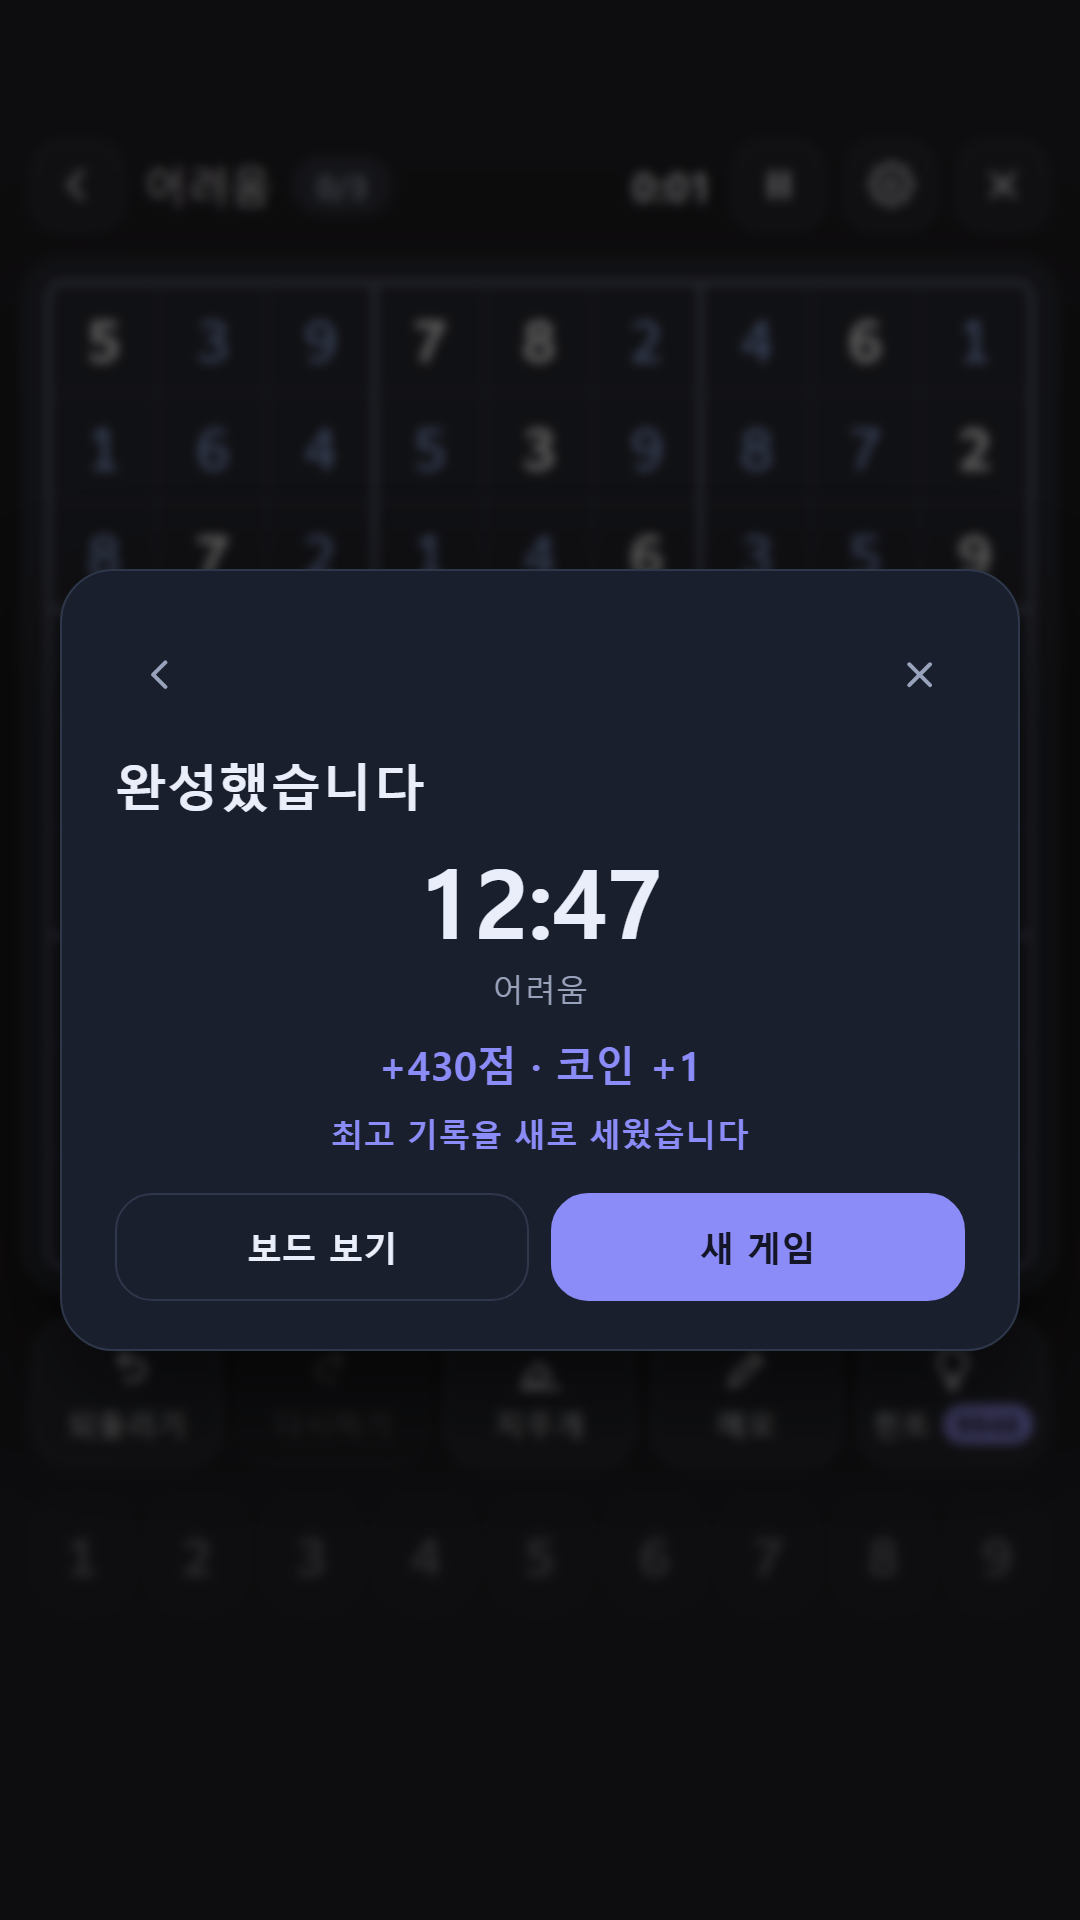
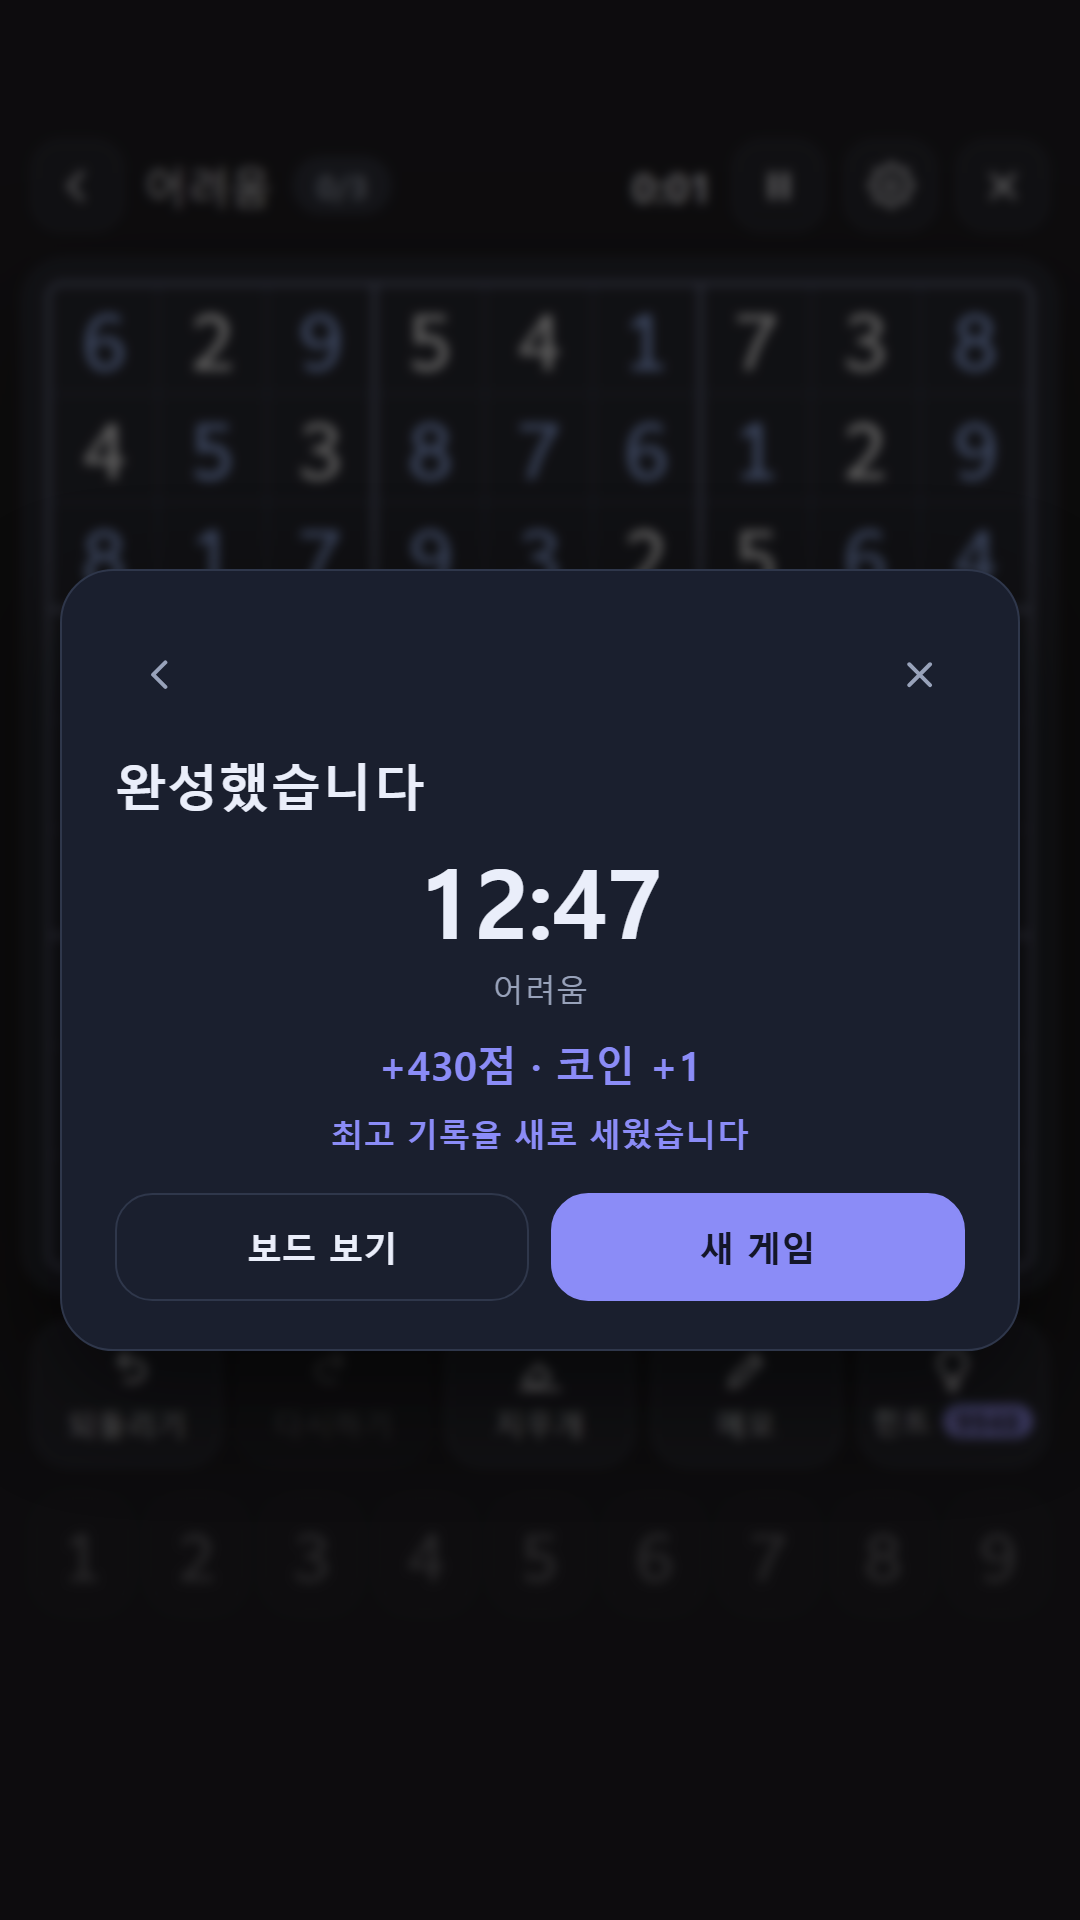
숫자를 가볍고 크게 (1-26)
Andika 는 400 과 700 두 벌뿐이다. 굵기를 재 보니 600 과 700 의 글자 폭이
정확히 같았다 — 600 을 주면 브라우저가 Bold 로 올려 매칭한다. 500 은 둘
사이로 합성된다. 시스템 글꼴(굵기가 촘촘한)을 기준으로 정해 둔 500·600·700
이 그대로 남아 있어서, 화면 숫자의 대부분이 실제 볼드로 그려지고 있었다.

굵기를 400 으로 내리고 크기를 칸의 .52 에서 .70 배로 키웠다. 굵기로 키우던
존재감을 크기로 옮긴 셈이다. 문제로 주어진 숫자는 굵기 대신 색으로만 가른다
— 굵게 두면 쉬운 판에서 화면 절반이 볼드가 된다. 숫자판도 400 에 칸 크기
비례로 키웠다. 메모만 700 을 남겼다. 아주 작아서 가늘게 두면 읽히지 않는다.

힌트 개수 알약의 줄 높이(1.5)가 도구 줄 전체를 밀어 올려 낮은 가로 화면에서
아래 칸이 7px 넘쳤다. 줄 높이를 눌러 두고 가로 배치의 숫자 키 높이 상수도
212 에서 220 으로 맞췄다.

검증: 8개 뷰포트에서 넘침 0, 숫자가 칸 밖으로 나가지 않는 것도 함께 셌다
(0/전체). 테스트 387건 통과. 스토어 스크린샷 재촬영.

Claude-Session: https://claude.ai/code/session_01WmQVhUnsNdVUHnQAEa6Dzo

diff --git a/index.html b/index.html
@@ -279,8 +279,10 @@ button {
      tabular 숫자를 함께 켜야 칸마다 자리가 흔들리지 않는다. */
   font-family: 'Andika', system-ui, -apple-system, "Segoe UI", Roboto, sans-serif;
   font-variant-numeric: tabular-nums;
-  font-size: calc(var(--cell) * .52);
-  font-weight: 500;
+  /* Andika 는 400 과 700 두 벌뿐이라 500·600 을 주면 Bold 로 튀거나 합성된다.
+     굵기로 키우는 대신 글자를 키워 칸을 채운다. */
+  font-size: calc(var(--cell) * .70);
+  font-weight: 400;
   line-height: 1;
   color: var(--ink-user);
   user-select: none;
@@ -298,7 +300,7 @@ button {
 .cell[data-c="8"] { border-right: none; }
 .cell[data-r="8"] { border-bottom: none; }
 
-.cell.given { color: var(--ink); font-weight: 700; }
+.cell.given { color: var(--ink); }
 .cell.err   { color: var(--ink-err); }
 
 /* 강조는 겹쳐 쌓이므로 약한 것부터 선언한다 */
@@ -324,7 +326,7 @@ button {
   grid-template: repeat(3, 1fr) / repeat(3, 1fr);
   font-family: var(--note-font, system-ui, sans-serif);
   font-size: calc(var(--cell) * .26);
-  font-weight: 700;
+  font-weight: 700;      /* 메모는 아주 작아서 가늘게 두면 읽히지 않는다 */
   color: var(--ink-note);
   line-height: 1;
 }
@@ -379,9 +381,11 @@ button {
 }
 /* 힌트에 남은 개수를 붙여 둔다. 전구 옆 작은 배지로 띄웠을 때는 그것이 무엇의
    개수인지 읽히지 않아, 라벨과 같은 줄에 두고 색을 준다. */
-.tool-line { display: flex; align-items: center; gap: 4px; }
+.tool-line { display: flex; align-items: center; gap: 4px; line-height: 1; }
 .tool .count {
-  font-size: 10px; font-weight: 800; line-height: 1.5;
+  /* 줄 높이를 1.5 로 두면 알약이 도구 줄 전체를 밀어 올려, 낮은 가로 화면에서
+     아래 칸이 넘친다. 알약 안쪽 여백으로 높이를 만들고 줄 높이는 눌러 둔다. */
+  font-size: 10px; font-weight: 800; line-height: 1.25;
   background: var(--accent); color: var(--accent-ink);
   border-radius: 999px; padding: 0 5px; min-width: 16px; text-align: center;
 }
@@ -405,8 +409,8 @@ button {
   color: var(--ui-text);
   font-family: 'Andika', system-ui, sans-serif;   /* 보드와 같은 숫자 모양 */
   font-variant-numeric: tabular-nums;
-  font-weight: 600;
-  font-size: clamp(17px, 4.8vw, 25px);
+  font-weight: 400;
+  font-size: clamp(20px, calc(var(--cell) * .60), 34px);
   display: grid; place-items: center;
 }
 .num:active { transform: translateY(1px); }
@@ -629,7 +633,7 @@ ul.help span { font-size: 12.5px; color: var(--ui-dim); line-height: 1.55; }
      (헤더 42 + 도구 55 + 패드 196 + 아래 칸 50 + 사이 여백 + 아래 padding 10).
      빼는 값은 그 합에서 패드를 뺀 것이다. 아래 칸이 새 게임 버튼(41)에서 광고
      자리(50)로 바뀌면서 212 가 됐다. */
-  .num { aspect-ratio: auto; height: min(60px, calc((100vh - 212px) / 3)); font-size: 22px; }
+  .num { aspect-ratio: auto; height: min(60px, calc((100vh - 220px) / 3)); font-size: 22px; }
   #app > header { margin-top: 0; }
   .side > .footer { margin-bottom: 0; }
 }

diff --git a/BACKLOG.md b/BACKLOG.md
@@ -42,6 +42,7 @@
 | 1-9 | 첫 실행 사용법 안내 | **완료** | 첫 실행에 한 번 뜨고, 이후에는 Home 의 물음표 버튼으로 언제든 볼 수 있다. 입력·규칙·메모·힌트·데일리 다섯 가지 |
 | 1-10 | 입력 편의 — 숫자 우선 모드 | **완료** | 설정에서 켠다. 고른 숫자가 패드에서 강조되고 같은 숫자가 든 칸이 함께 보인다. 같은 숫자를 다시 누르면 해제 |
 | 1-25 | **배경을 흰색으로, 숫자 글꼴을 Andika 로** | **완료** | 라이트 테마 배경 `#eef1f8`→`#ffffff`. 카드도 흰색이라 경계가 사라져 테두리와 격자선을 조금 진하게 잡았다. 숫자 글꼴은 Andika(SIL) — 1 과 7, 6 과 9 가 헷갈리지 않게 그려진 글꼴이다. 인터넷 권한이 없어 받아 올 수 없고 `file://` 에서 바깥 파일을 `@font-face` 로 부르면 막히는 일이 있어, latin 서브셋 woff2 두 벌(38KB)을 base64 로 심었다. 보드·숫자판·메모에 쓴다. OFL 1.1 이라 전문을 `fonts/OFL-Andika.txt` 에 두고 설정 아래에 고지를 넣었다 |
+| 1-26 | **숫자를 가볍고 크게** | **완료** | Andika 는 400·700 두 벌뿐이라 500·600 을 주면 Bold 로 튀거나 합성된다 — 화면 숫자 대부분이 실제 볼드였다. 굵기를 400 으로 내리고 크기를 칸의 .52→.70 배로 키웠다. 문제로 주어진 숫자는 굵기 대신 색으로만 가른다. 숫자판도 400 에 칸 크기 비례로 키웠다. 메모만 700 을 남겼다 — 아주 작아서 가늘면 읽히지 않는다 |
 | 1-21 | **설정에서 메모 자동 채우기 제거** | **완료** | 난이도 시트의 "자동 메모 사용 시작" 버튼이 그 역할을 한다. 저장 키와 기능은 그대로 두고 설정 행만 뺐다 |
 | 1-22 | **실수 제한** | **완료** | 기본 켬, 세 번까지(`MISTAKE_MAX`). 헤더에 `1/3` 로 세고 마지막 한 번이 남으면 빨갛게 바뀐다. 넘기면 판이 끝나고 점수·코인 없이 연속 완료가 끊긴다. 되돌리기로는 실수를 무르지 못한다 — 무를 수 있으면 제한이 없는 것과 같다. 판정은 규칙 위반이 아니라 **정답과 다른 값**이다 |
 | 1-23 | **Auto-Remove Notes 를 설정으로** | **완료** | 동작 자체는 있었고 끄고 켤 수단이 없었다. `autoClearNotes` 로 뺐다(기본 켬). 손으로 놓을 때와 힌트로 채울 때 모두 이 설정을 따른다 |
